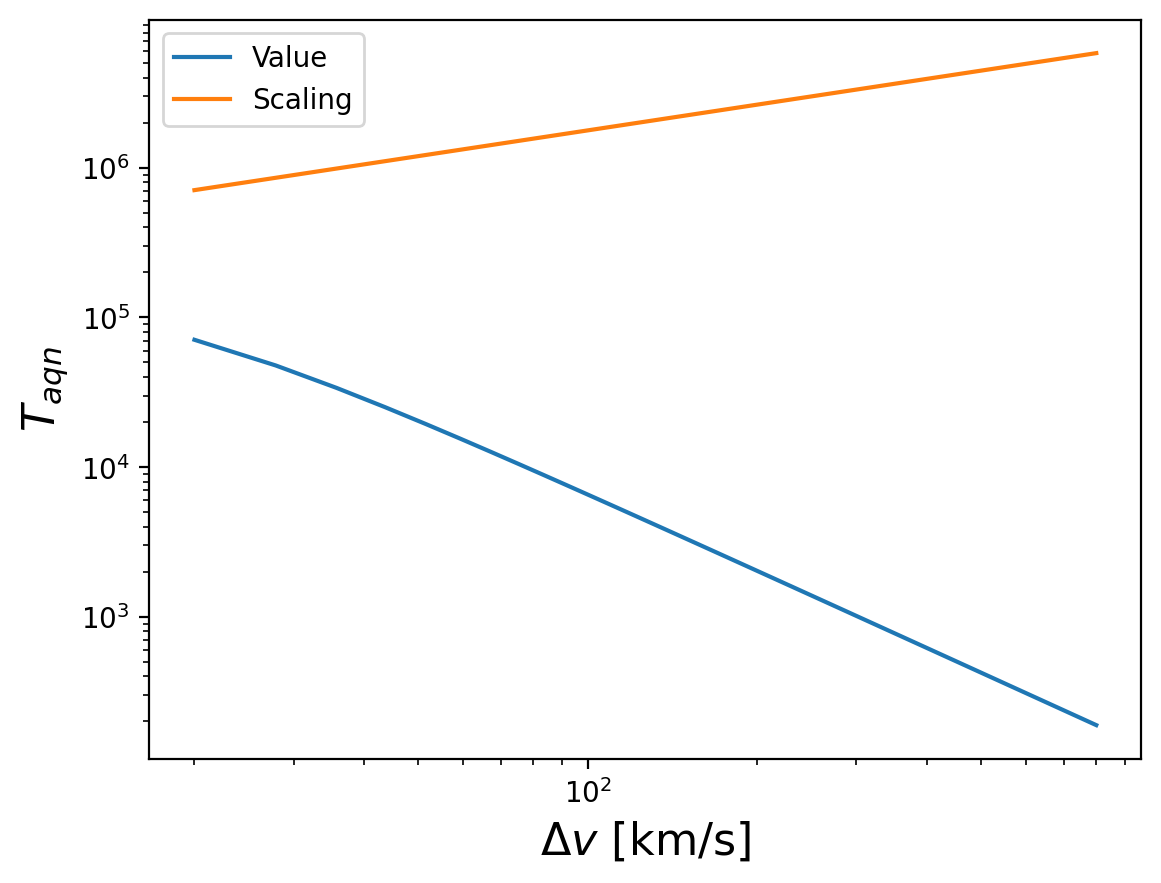
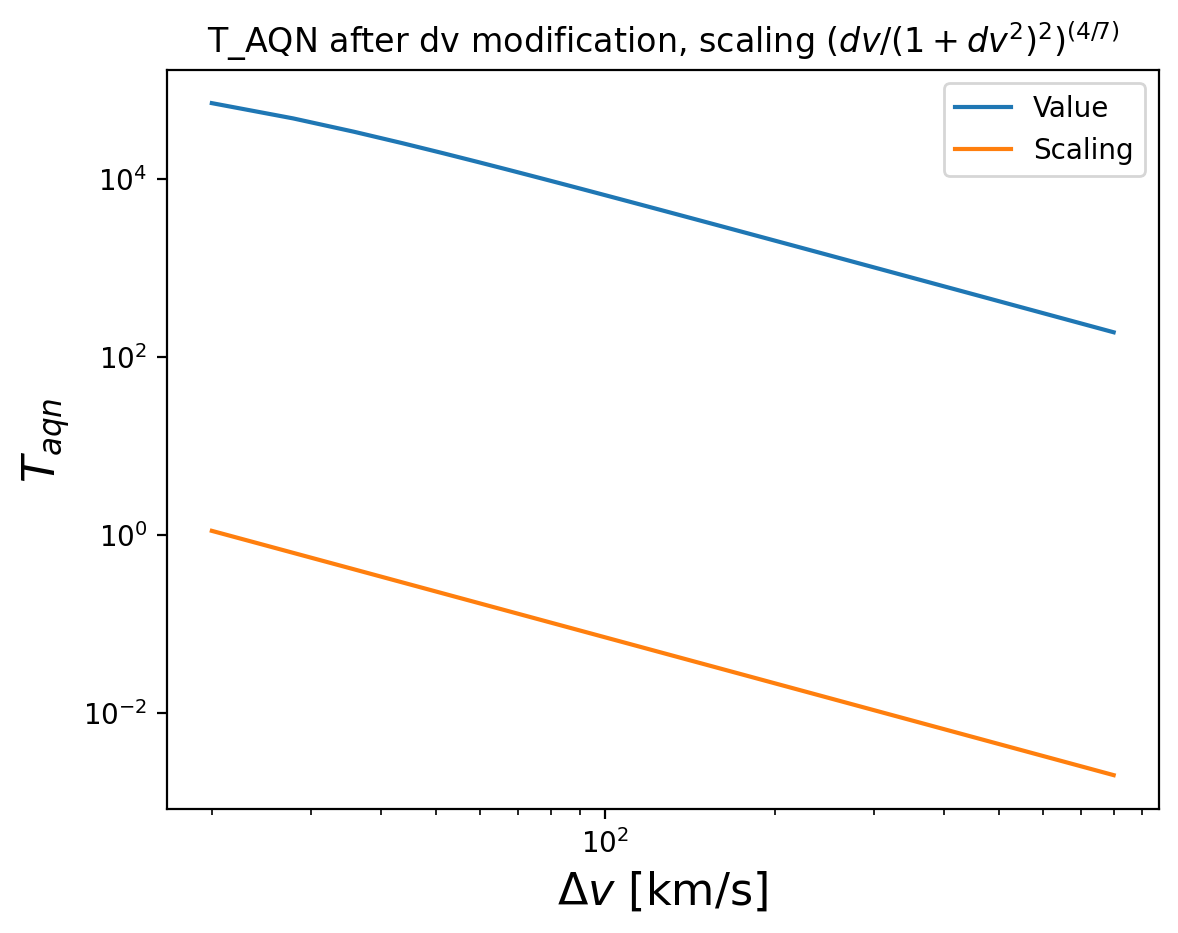
T_aqn relationships verified

diff --git a/processing/notebook_functions.py b/processing/notebook_functions.py
@@ -559,19 +559,47 @@ def epsilon_parameter_relations_study(quant, m_aqn_kg, frequency_band):
     plt.savefig(parameter_relations_save_location+"epsilon_vs_t_gas.png", bbox_inches="tight")
     plt.show()
 
-def t_aqn_parameter_relations_study(quant, m_aqn_kg, frequency_band):
+
+
+###############################################################################
+def t_aqn_parameter_relations_study(quant_original, m_aqn_kg, frequency_band):
     parameter_relations_save_location = "../visuals/parameter_relations/"
 
+    quant = quant_original.copy()
+
     velocity_array = np.linspace(20, 800, 100) * u.km/u.s
-    epsilon_array = parameter_variation_t_aqn(quant, m_aqn_kg, frequency_band, "dv_ioni", velocity_array)
-    epsilon_array = epsilon_array / K_to_eV
-    fig, ax = plot_parameter_variation(r"$\Delta v$ [km/s]", r"$T_{aqn}$", velocity_array, epsilon_array)
-    plot_scaling_relation(ax, velocity_array, 4/7, np.max(epsilon_array))
+    T_AQN_array = np.zeros(len(velocity_array)) * u.K
+    for i in range(len(velocity_array)):
+        T_AQN_array[i] = T_AQN_ionized2(
+            n_bar = 0.01 * 1/u.cm**3,
+            Dv = velocity_array[i] / cst.c.to(u.km/u.s),
+            f = 1,
+            g = 0.1,
+            T_p = 10**4 * u.K * K_to_eV,
+            R = calc_R_AQN((16.7 * u.g).to(u.kg))) / K_to_eV
+
+    fig, ax = plot_parameter_variation(r"$\Delta v$ [km/s]", r"$T_{aqn}$", velocity_array, T_AQN_array)
+    plot_scaling_relation(ax, velocity_array, 4/7, np.max(T_AQN_array))
+    ax.set_xscale("log")
+    ax.set_yscale("log")
+    plt.title("T_AQN before dv modification, scaling 4/7 w/ dv")
+    plt.legend()
+    plt.savefig(parameter_relations_save_location+"t_aqn_vs_dv_no_dv.png", bbox_inches="tight")
+    plt.show()
+
+    velocity_array = np.linspace(20, 800, 100) * u.km/u.s
+    T_AQN_array = parameter_variation_t_aqn(quant, m_aqn_kg, frequency_band, "dv_ioni", velocity_array)
+    T_AQN_array = T_AQN_array / K_to_eV
+    fig, ax = plot_parameter_variation(r"$\Delta v$ [km/s]", r"$T_{aqn}$", velocity_array, T_AQN_array)
+    ax.plot(velocity_array, np.min(T_AQN_array) * (velocity_array.value * (1/(1+velocity_array.value**2)**2))**(4/7), label="Scaling")
+    plt.title(r"T_AQN after dv modification, scaling $(dv/(1+dv^2)^2)^{(4/7)}$")
     ax.set_xscale("log")
     ax.set_yscale("log")
     plt.legend()
     plt.savefig(parameter_relations_save_location+"t_aqn_vs_dv.png", bbox_inches="tight")
     plt.show()
+
+    quant = quant_original.copy()
 
     ioni_gas_array = np.linspace(1e-4, 1e-1, 10) * 1/u.cm**3
     epsilon_array = parameter_variation_t_aqn(quant, m_aqn_kg, frequency_band, "ioni_gas", ioni_gas_array)
@@ -584,6 +612,8 @@ def t_aqn_parameter_relations_study(quant, m_aqn_kg, frequency_band):
     plt.savefig(parameter_relations_save_location+"t_aqn_vs_ioni_gas.png", bbox_inches="tight")
     plt.show()
 
+    quant = quant_original.copy()
+
     m_aqn_kg_array = np.linspace(1e-4, 1e-1, 10) * u.kg
     epsilon_array = parameter_variation_t_aqn(quant, m_aqn_kg, frequency_band, "aqn_mass", m_aqn_kg_array, True)
 
@@ -595,16 +625,37 @@ def t_aqn_parameter_relations_study(quant, m_aqn_kg, frequency_band):
     plt.savefig(parameter_relations_save_location+"t_aqn_vs_m_aqn.png", bbox_inches="tight")
     plt.show()
 
-    T_gas_array = np.linspace(1e2, 1e6, 100) * u.K
-    epsilon_array = parameter_variation_t_aqn(quant, m_aqn_kg, frequency_band, "temp_ion", T_gas_array)
+    quant = quant_original.copy()
 
-    fig, ax = plot_parameter_variation(r"$T_{gas}$ [K]", r"$T_{aqn}$", T_gas_array, epsilon_array)
-    plot_scaling_relation(ax, T_gas_array, 8/7, np.min(epsilon_array))
+    T_gas_array = np.linspace(1e2, 1e6, 100) * u.K
+    T_gas_eff_array = np.zeros(len(T_gas_array)) * u.K
+    t_aqn_i_array = np.zeros(len(T_gas_array)) * u.eV
+    for i, T_gas in enumerate(T_gas_array):
+        quant["temp_ion"] = T_gas
+        enforce_units(quant)
+        res = compute_epsilon_ionized(quant, m_aqn_kg, frequency_band)
+        t_aqn_i_array[i] = res["t_aqn_i"]
+        T_gas_eff_array[i] = res["temp_ion_eff"] / K_to_eV
+
+    fig, ax = plot_parameter_variation(r"$T_{gas eff}$ [K]", r"$T_{aqn}$", T_gas_eff_array, t_aqn_i_array)
+    plot_scaling_relation(ax, T_gas_eff_array, -8/7, np.min(t_aqn_i_array))
+    ax.set_xscale("log")
+    ax.set_yscale("log")
+    plt.legend()
+    plt.savefig(parameter_relations_save_location+"t_aqn_vs_t_gas_eff.png", bbox_inches="tight")
+    plt.show()
+
+    fig, ax = plot_parameter_variation(r"$T_{gas}$ [K]", r"$T_{aqn}$", T_gas_array, t_aqn_i_array)
+    ax.plot(T_gas_array, np.min(t_aqn_i_array) * (1/( 1/2 * cst.m_p.value * kg_to_eV.value * quant["dv_ioni"].value**2 + \
+                                                T_gas_array.value*K_to_eV.value)**2)**(4/7), label="Scaling")
+    plt.title(r"T_AQN vs T_gas, scaling $T_g\sim (1/(1/2m_pdv^2+T_g)^2)^{(4/7)}$")
     ax.set_xscale("log")
     ax.set_yscale("log")
     plt.legend()
     plt.savefig(parameter_relations_save_location+"t_aqn_vs_t_gas.png", bbox_inches="tight")
     plt.show()
+###############################################################################
+
 
 def parameter_variation(quant, m_aqn_kg, frequency_band, parameter_name, parameter_array, mass_variation = False):
     parameter_array_length = len(parameter_array)
@@ -647,7 +698,7 @@ def plot_parameter_variation(parameter1_name, parameter2_name, parameter1_array,
 
 def plot_scaling_relation(ax, parameter_array, scaling_power, scaling_constant):
     scaled_parameter = parameter_array**scaling_power
-    scaled_parameter = scaling_constant * scaled_parameter / scaled_parameter[0] * 10
+    scaled_parameter = scaling_constant * scaled_parameter / scaled_parameter[0] * 1.5
     ax.plot(parameter_array, scaled_parameter, label=f"Scaling")
 
 

diff --git a/processing/testing-velocity-distribution.py b/processing/testing-velocity-distribution.py
@@ -30,10 +30,20 @@ sigma_v, v_b = 156, 180
 
 # epsilon_parameter_relations_study(quant, m_aqn_kg, frequency_band)
 
-t_aqn_parameter_relations_study(quant, m_aqn_kg, frequency_band)
 
+###############################################################################
+# Testing with Xunyu's values
 
-print(T_AQN_ionized2(
+n_bar = 0.01 * 1/u.cm**3
+Dv = 220 * u.km/u.s
+f = 1
+g = 0.1
+T_p = 10**4 * u.K
+R = calc_R_AQN((16.7 * u.g).to(u.kg))
+
+print(f"n_bar={n_bar}\nDv={Dv}\nf={f}\ng={g}\nT_p={T_p}\nR={R}")
+
+print(">>\t",T_AQN_ionized2(
     n_bar = 0.01 * 1/u.cm**3,
     Dv = 220 * u.km/u.s / cst.c.to(u.km/u.s),
     f = 1,
@@ -41,7 +51,18 @@ print(T_AQN_ionized2(
     T_p = 10**4 * u.K * K_to_eV,
     R = calc_R_AQN((16.7 * u.g).to(u.kg))))
 
-print(T_AQN_ionized2(
+print("\n\n")
+
+n_bar = 0.01 * 1/u.cm**3
+Dv = 220 * u.km/u.s
+f = 1
+g = 0.1
+T_p = 1.5*10**5 * u.K
+R = calc_R_AQN((16.7 * u.g).to(u.kg))
+
+print(f"n_bar={n_bar}\nDv={Dv}\nf={f}\ng={g}\nT_p={T_p}\nR={R}")
+
+print(">>\t",T_AQN_ionized2(
     n_bar = 0.01 * 1/u.cm**3,
     Dv = 220 * u.km/u.s / cst.c.to(u.km/u.s),
     f = 1,
@@ -49,26 +70,56 @@ print(T_AQN_ionized2(
     T_p = 1.5*10**5 * u.K * K_to_eV,
     R = calc_R_AQN((16.7 * u.g).to(u.kg))))
 
-#### Investigation of T_AQN VS dv
+###############################################################################
 
-velocity_array = np.linspace(20, 800, 100) * u.km/u.s
-T_AQN_array = np.zeros(len(velocity_array)) * u.K
-for i in range(len(velocity_array)):
-    T_AQN_array[i] = T_AQN_ionized2(
-        n_bar = 0.01 * 1/u.cm**3,
-        Dv = velocity_array[i] / cst.c.to(u.km/u.s),
-        f = 1,
-        g = 0.1,
-        T_p = 10**4 * u.K * K_to_eV,
-        R = calc_R_AQN((16.7 * u.g).to(u.kg))) / K_to_eV
+###############################################################################
+# Investigation of T_AQN VS dv, ioni_gas, m_aqn and T_gas_eff
+t_aqn_parameter_relations_study(quant.copy(), m_aqn_kg, frequency_band)
 
-fig, ax = plot_parameter_variation(r"$\Delta v$ [km/s]", r"$T_{aqn}$", velocity_array, T_AQN_array)
-plot_scaling_relation(ax, velocity_array, 4/7, np.max(T_AQN_array))
-ax.set_xscale("log")
-ax.set_yscale("log")
-plt.legend()
-# plt.savefig(parameter_relations_save_location+"t_aqn_vs_dv.png", bbox_inches="tight")
-plt.show()
+
+
+
+
+# T_AQN_array = np.zeros(len(velocity_array)) * u.K
+# for i, velocity in enumerate(velocity_array):
+#     quant["dv_ioni"] = velocity
+#     enforce_units(quant)
+#     T_AQN_array[i] = compute_epsilon_ionized(quant, m_aqn_kg, frequency_band)["t_aqn_i"] / K_to_eV
+
+
+# fig, ax = plot_parameter_variation(r"$\Delta v$ [km/s]", r"$T_{aqn}$", velocity_array, T_AQN_array)
+# # plot_scaling_relation(ax, velocity_array, 20/7, np.max(T_AQN_array))
+# ax.plot(velocity_array, np.min(T_AQN_array) * (velocity_array.value * (1/(1+velocity_array.value**2)**2))**(4/7), label="Scaling")
+# ax.set_xscale("log")
+# ax.set_yscale("log")
+# plt.title(r"T_AQN after dv modification, scaling $(dv/(1+dv^2)^2)^{(4/7)}$")
+# plt.legend()
+# # plt.savefig(parameter_relations_save_location+"t_aqn_vs_dv.png", bbox_inches="tight")
+# plt.show()
+
+
+
+
+
+
+
+
+
+
+
+
+
+
+
+
+
+
+
+
+
+
+
+
 
 # plot_maxwell_boltzmann()
 
